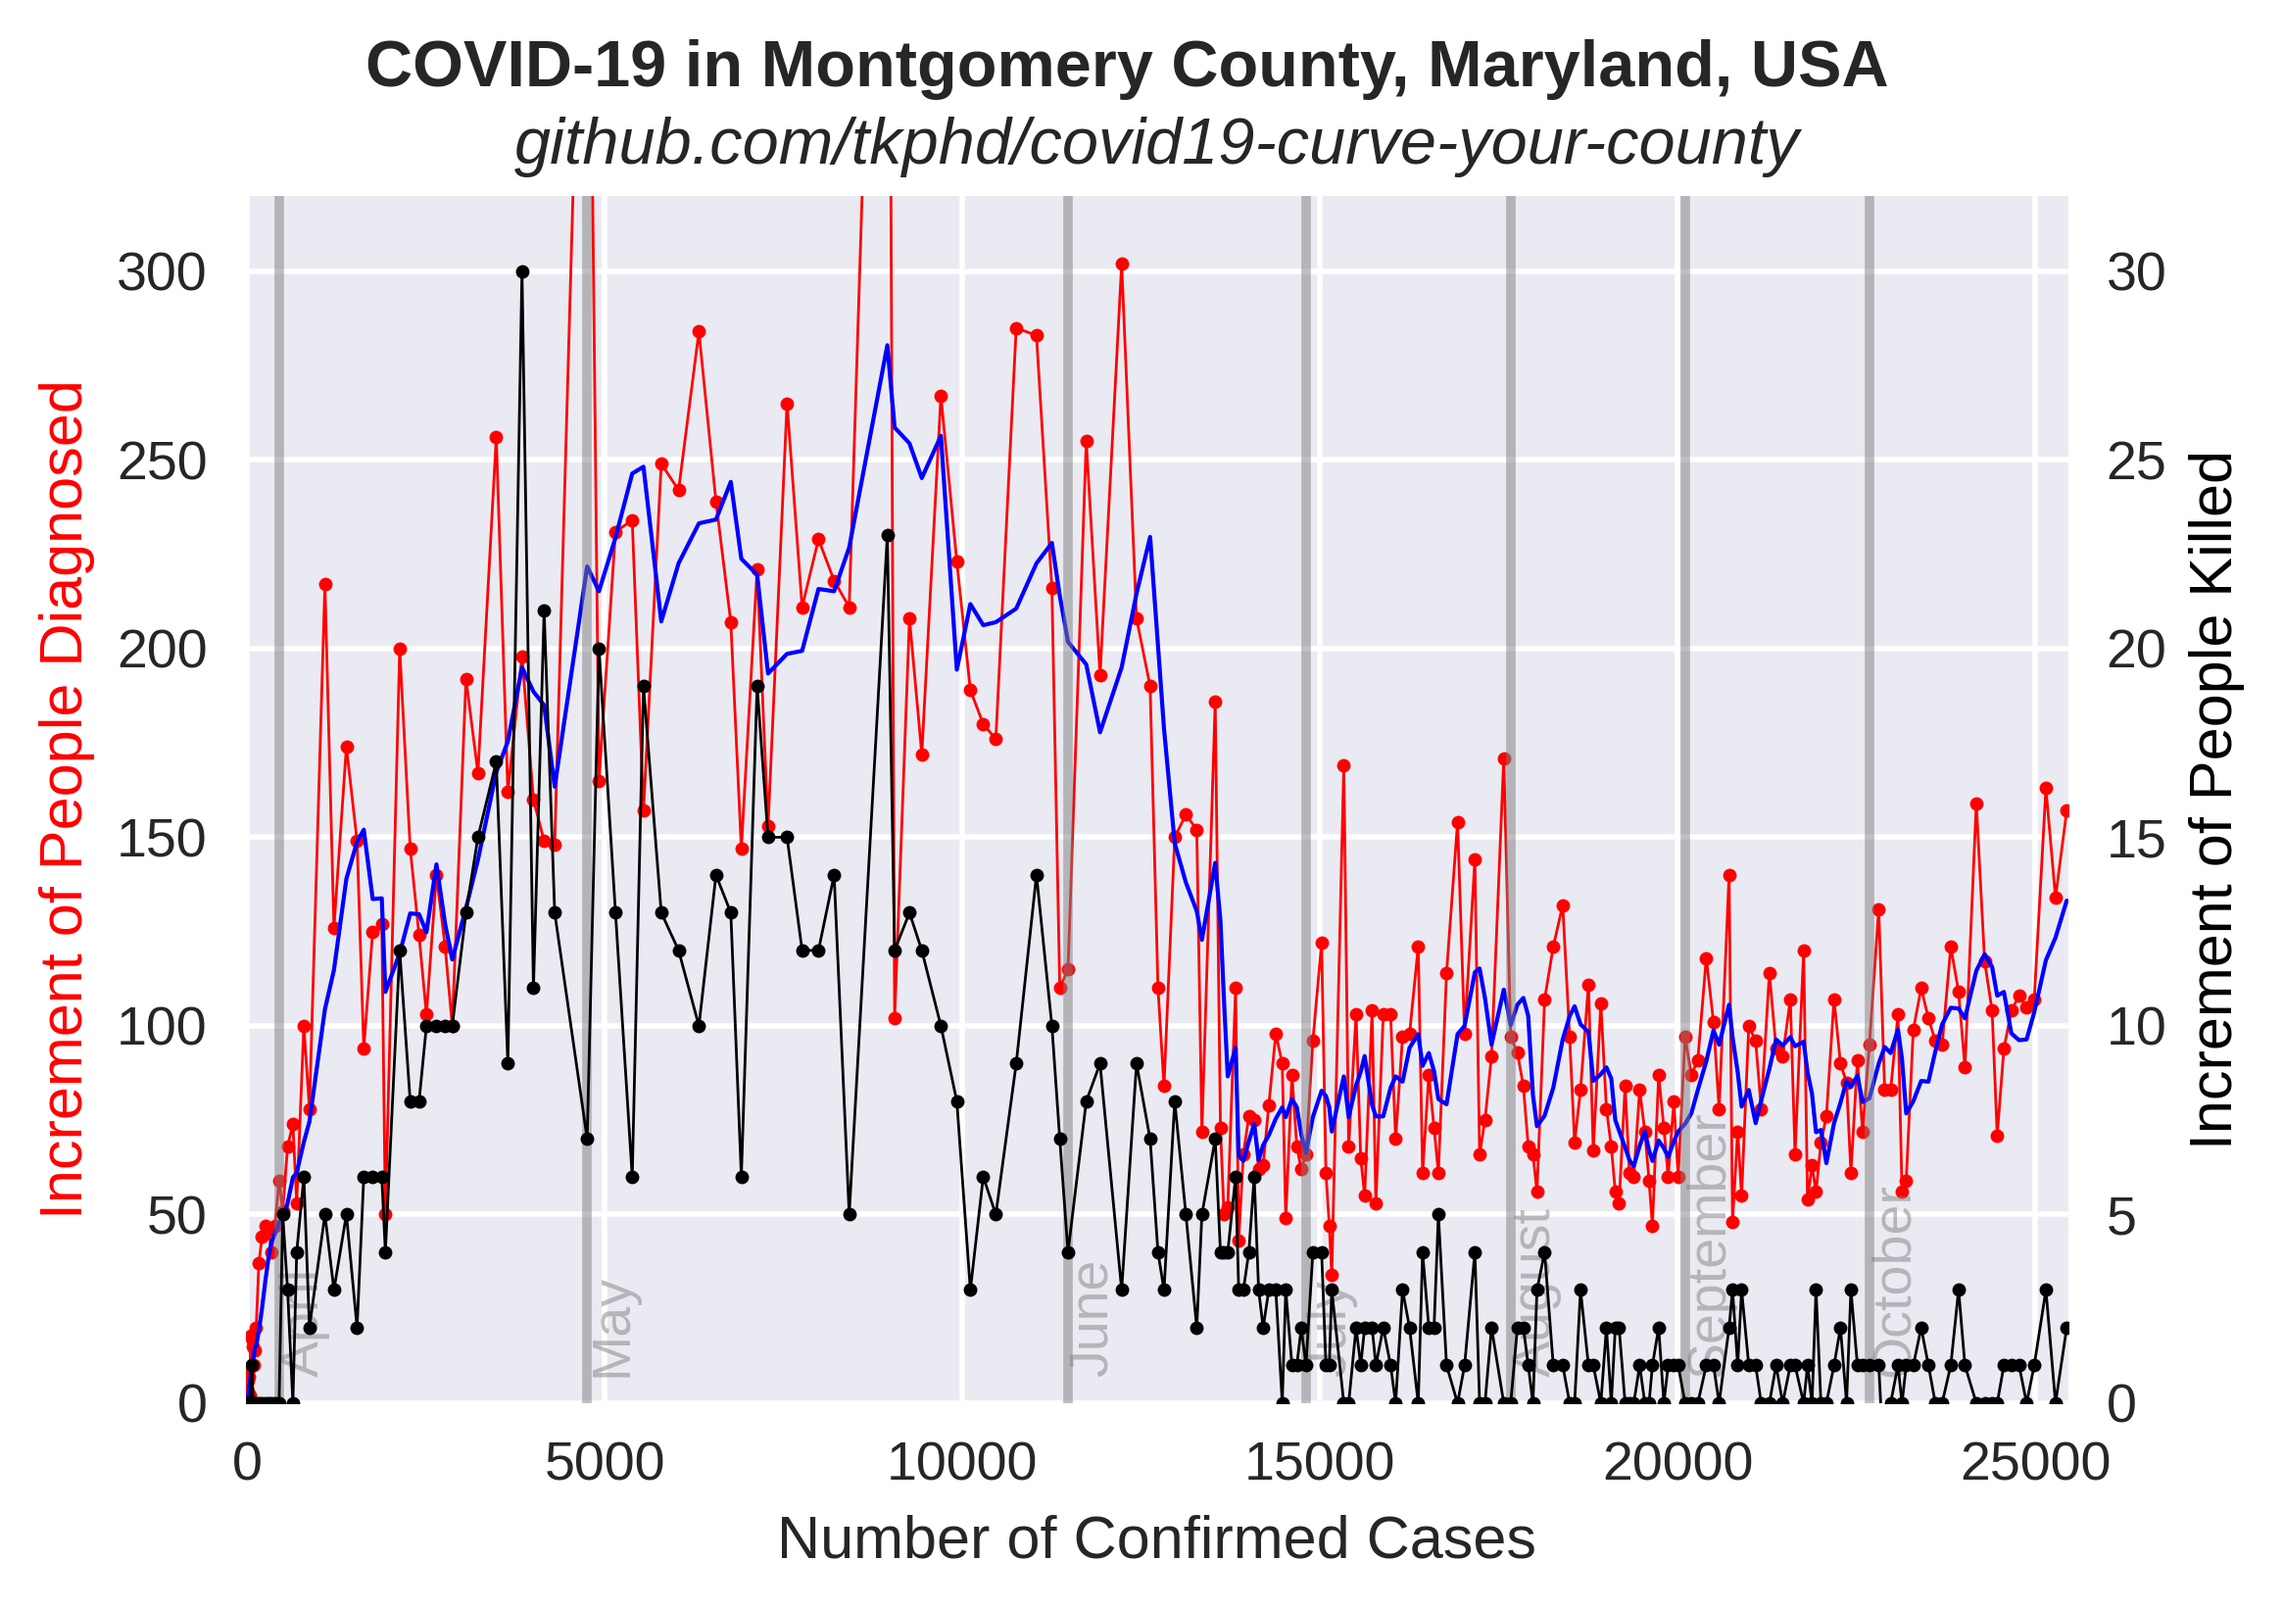
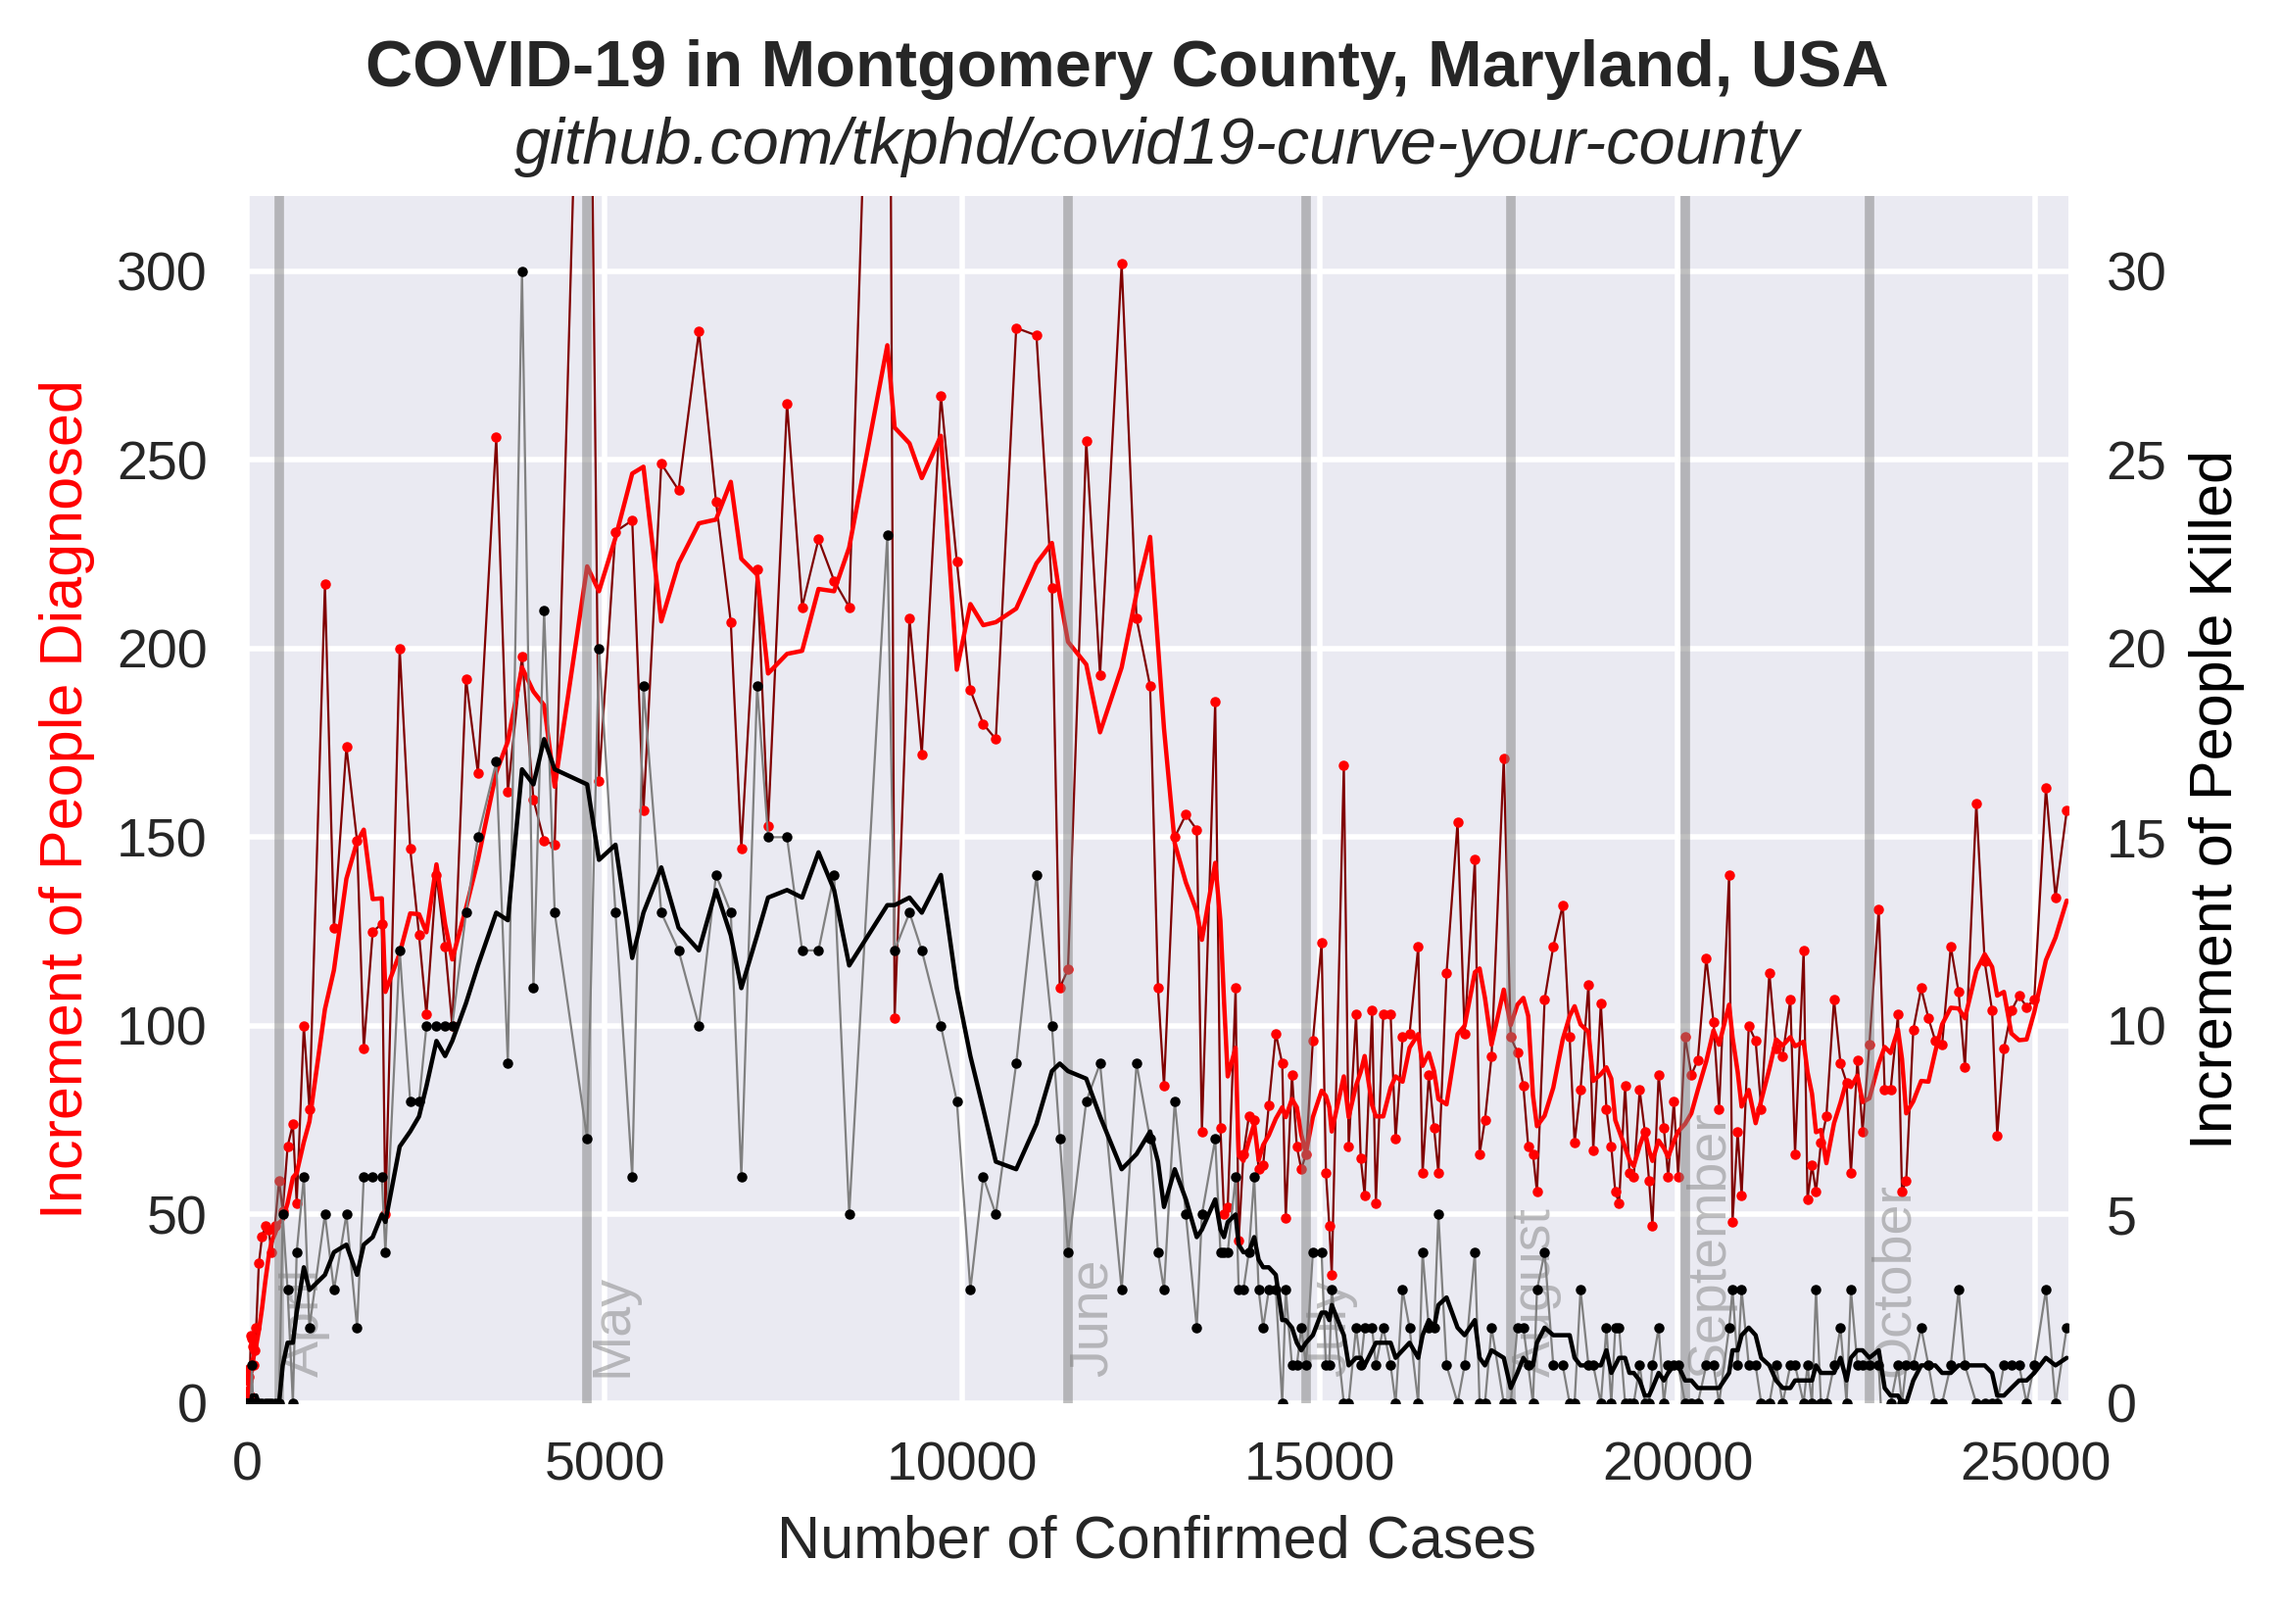
revised visual style to emphasize 5-day average

diff --git a/exponential.py b/exponential.py
@@ -262,9 +262,8 @@ ax1.set_xlabel("Number of Confirmed Cases")
 ax1.set_xlim([-20, np.max(x) + 20])
 ax1.set_ylim([0, 320])
 ax1.set_ylabel("Increment of People {0}".format(key.capitalize()), color=colors[key])
-ax1.plot(
-    x, y, "-o", markersize=2.5, linewidth=0.5, color=colors[key], label=key.capitalize()
-)
+ax1.scatter(x, y, s=2.5, color=colors[key], label=key.capitalize(), zorder=5)
+ax1.plot(x, y, linewidth=0.4, color="maroon", label=None, zorder=1)
 
 # Moving average
 window_width = 5
@@ -273,8 +272,8 @@ mavg = (cumsum_vec[window_width:] - cumsum_vec[:-window_width]) / window_width
 ax1.plot(
     x[window_width - 1 :],
     mavg,
-    color="blue",
-    linewidth=0.75,
+    color=colors[key],
+    linewidth=0.8,
     label="{0}-day avg".format(window_width),
 )
 
@@ -289,8 +288,17 @@ y = np.array(data[key])
 for i in np.arange(len(y) - 1, 1, -1):
     y[i] -= y[i - 1]
 
+ax2.scatter(x, y, s=2.5, color=colors[key], label=key.capitalize(), zorder=5)
+ax2.plot(x, y, linewidth=0.4, color="gray", label=None, zorder=1)
+
+cumsum_vec = np.cumsum(np.insert(y, 0, 0))
+mavg = (cumsum_vec[window_width:] - cumsum_vec[:-window_width]) / window_width
 ax2.plot(
-    x, y, "-o", markersize=2.5, linewidth=0.5, color=colors[key], label=key.capitalize()
+    x[window_width - 1 :],
+    mavg,
+    color=colors[key],
+    linewidth=0.8,
+    label="{0}-day avg".format(window_width),
 )
 
 # Label months
